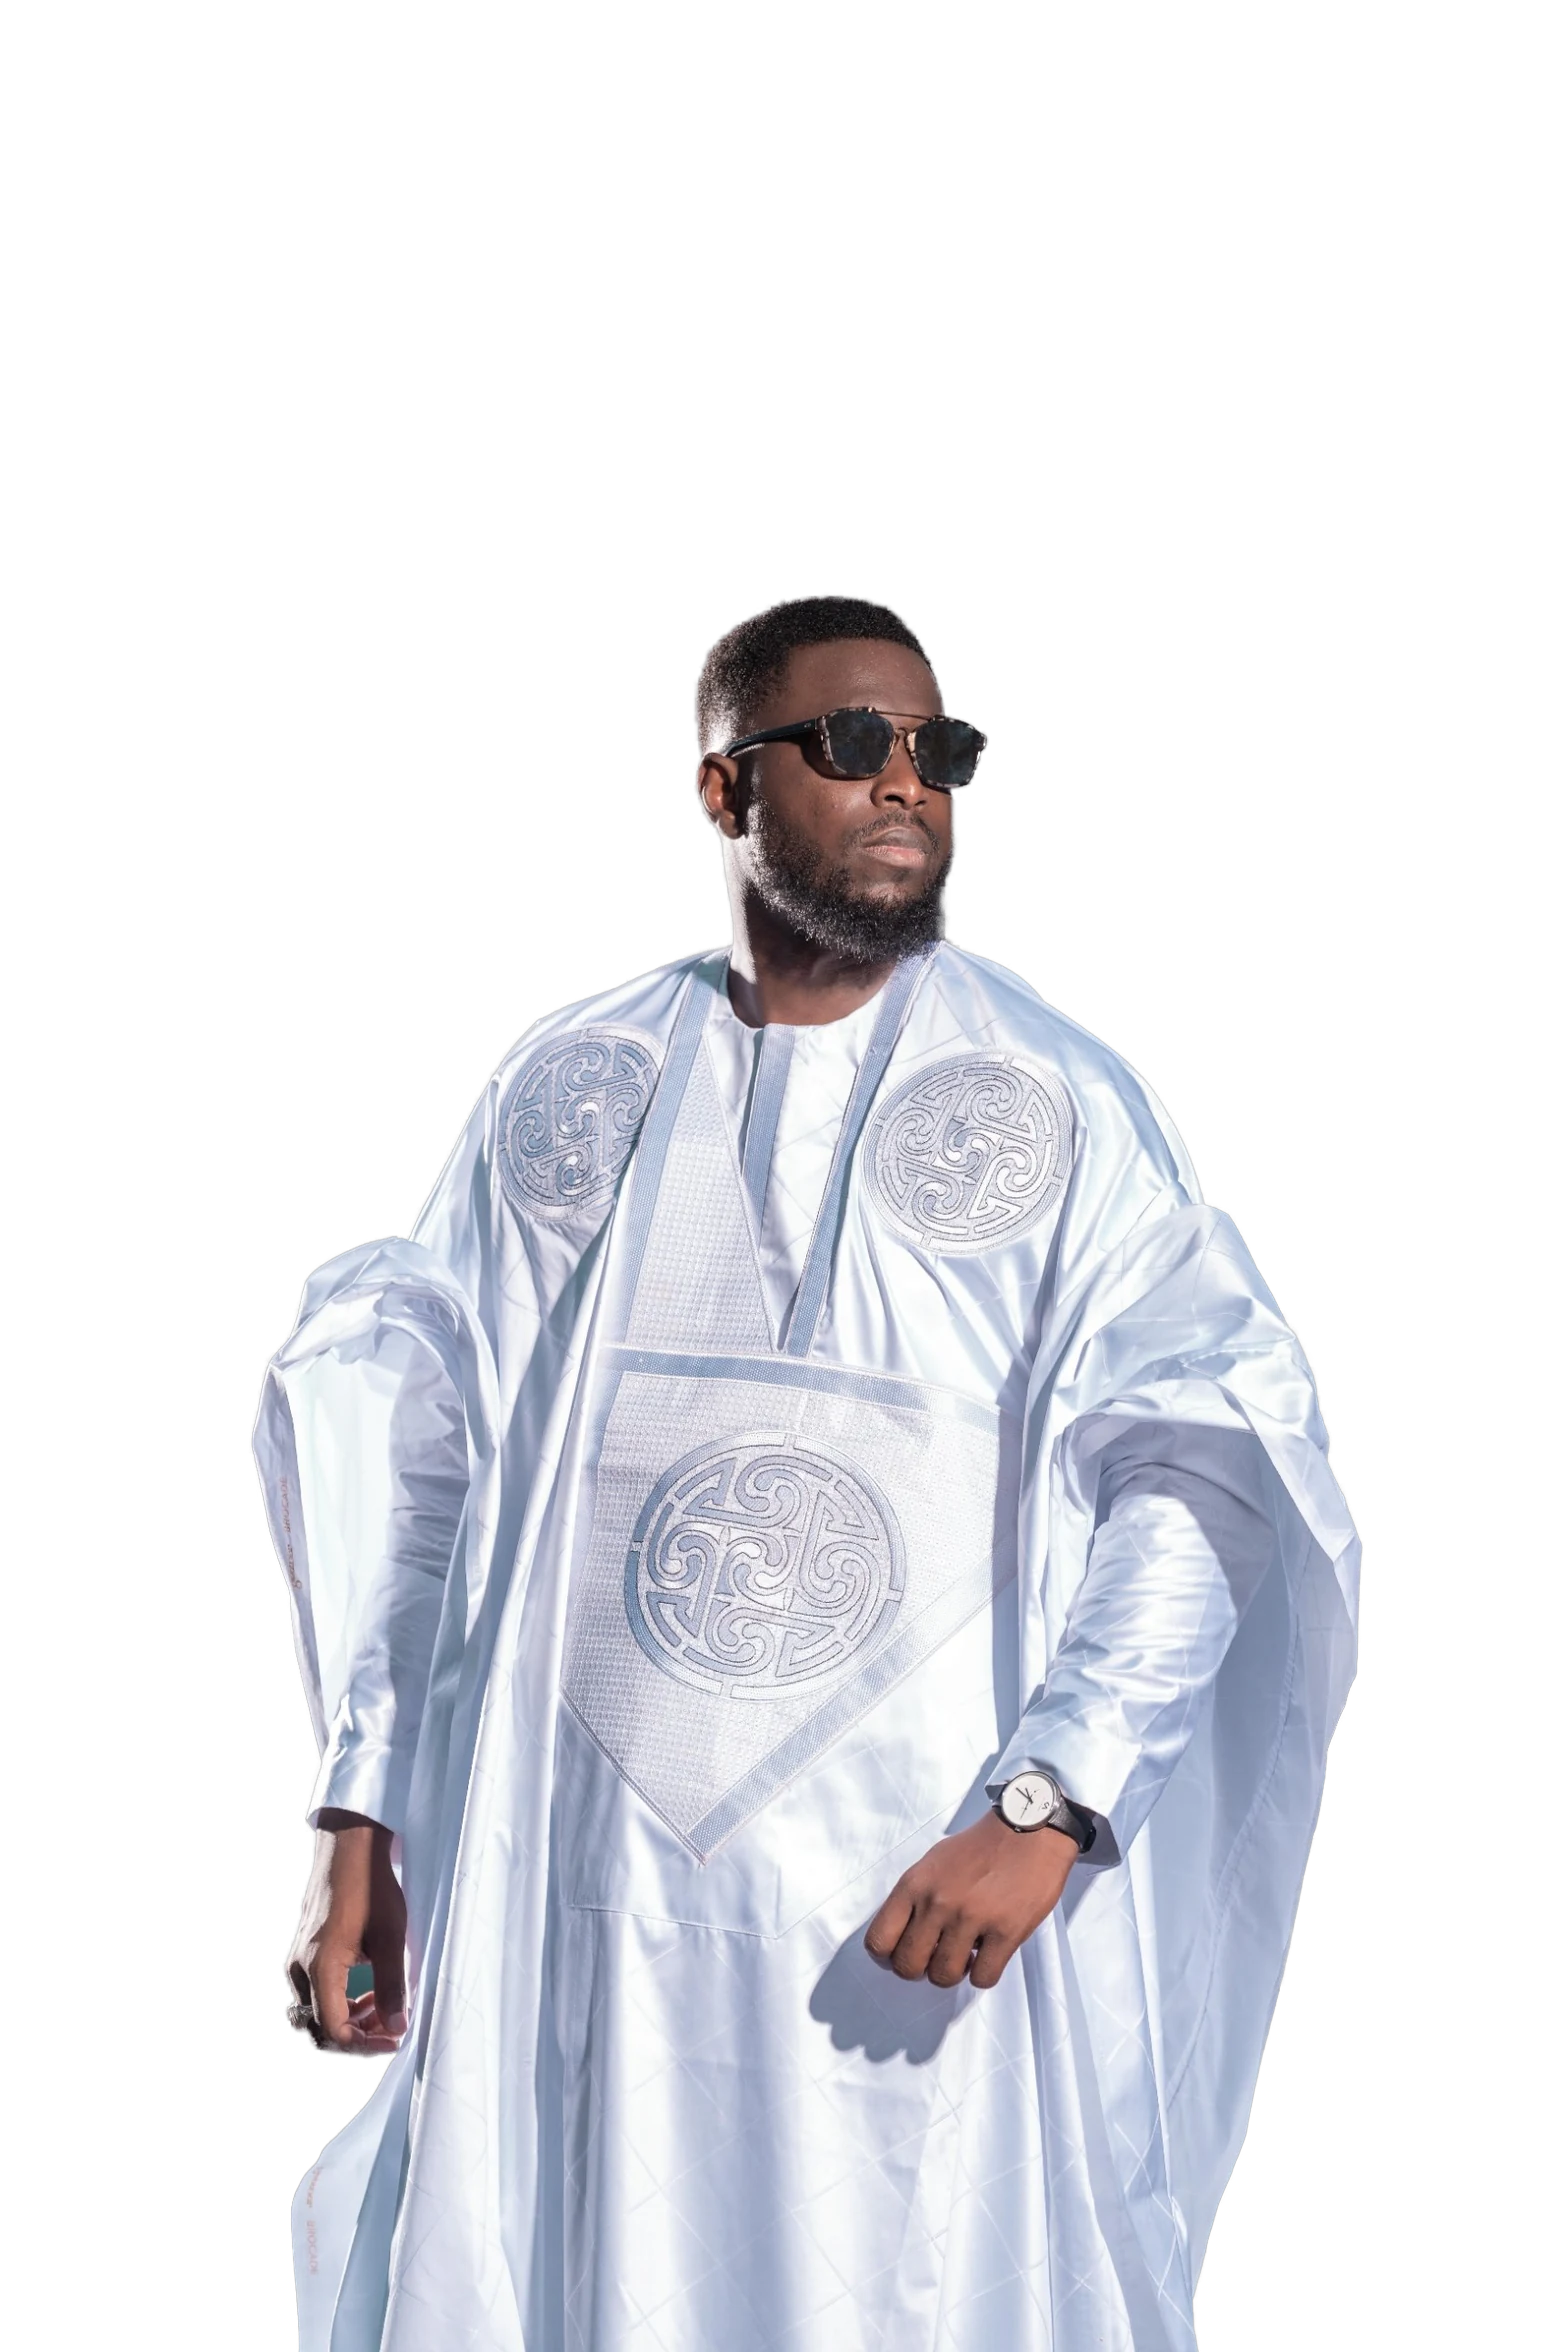
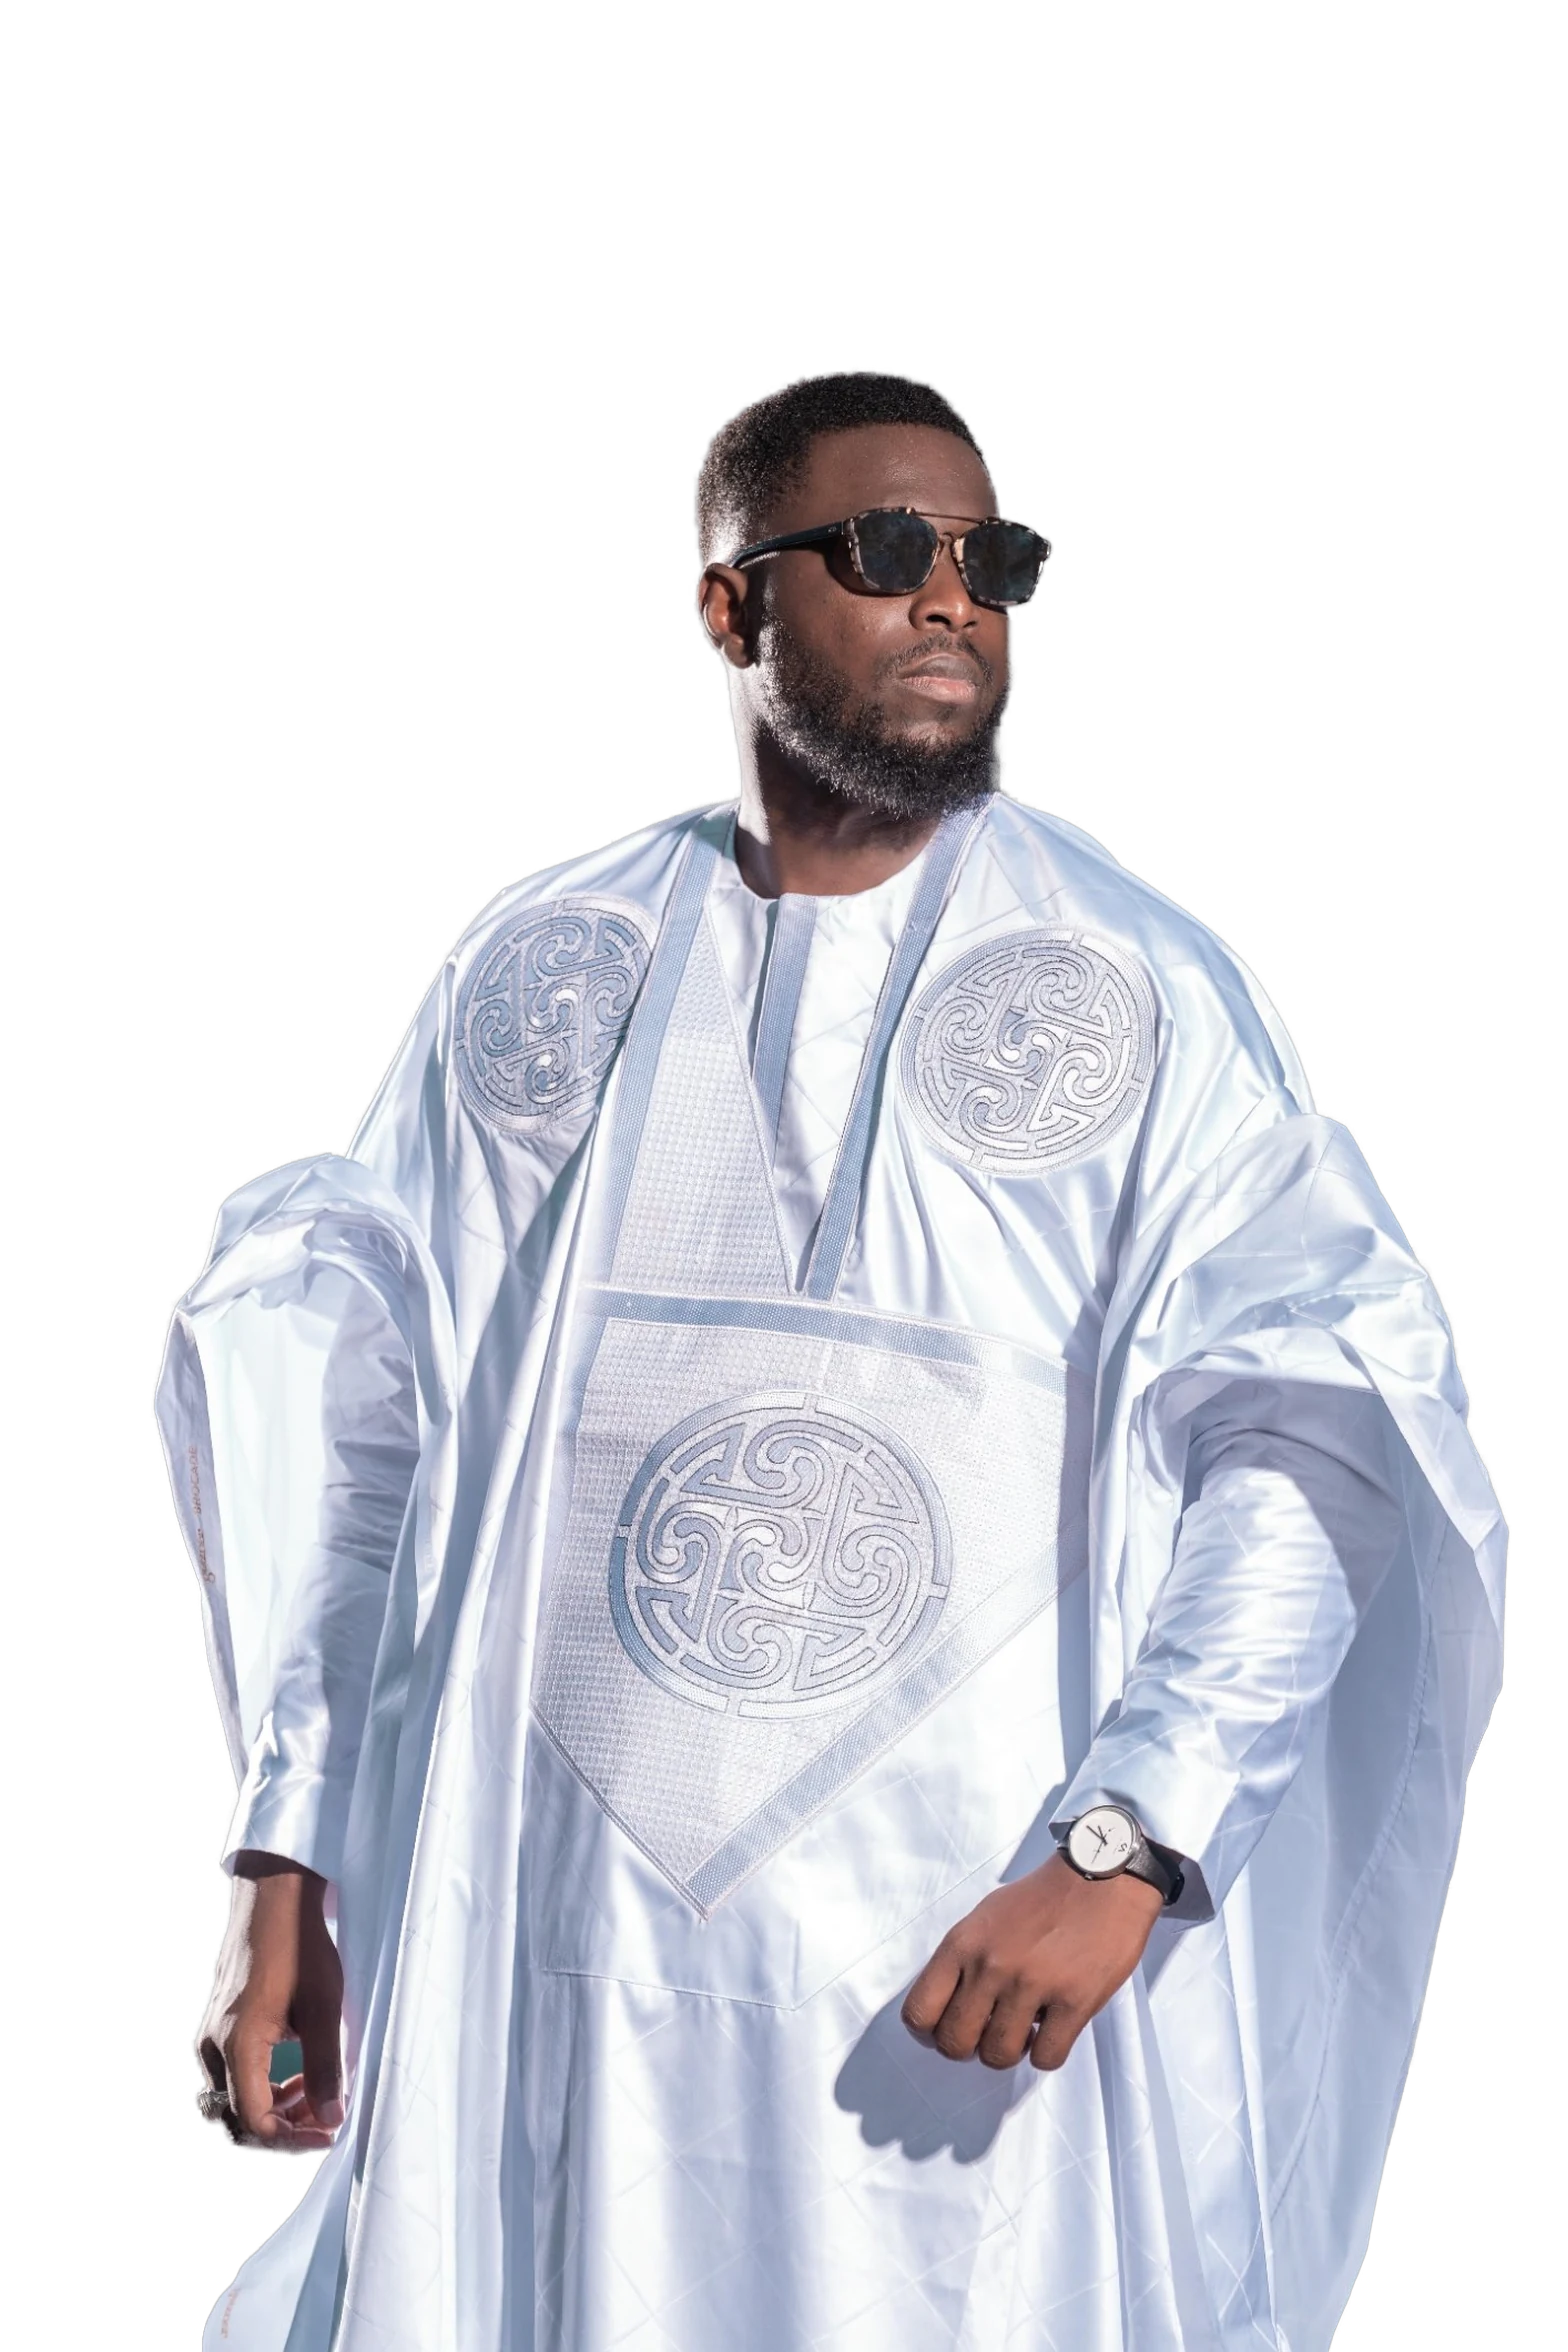
Add files via upload

diff --git a/css/style.css b/css/style.css
@@ -401,7 +401,7 @@ main h2 { font-size: clamp(2rem, 5vw, 3.4rem); margin: 0 0 1rem; }
 /* ---------- Accueil : ordinateur = deux photos côte à côte, sans diaporama ; tablette et téléphone = diaporama ---------- */
 .hero-count { display: none; }
 .hero-duo { display: none; }
-@media (min-width: 1100px) {
+@media (min-width: 1280px) {
   .hero-photo .slide { opacity: 1 !important; transition: none; }
   .hero-photo .slide:nth-of-type(n + 2) { display: none; }
   .hero-photo::before { opacity: 1 !important; }
@@ -412,9 +412,9 @@ main h2 { font-size: clamp(2rem, 5vw, 3.4rem); margin: 0 0 1rem; }
   }
   .hero-duo img { display: block; width: 100%; height: 100%; object-fit: cover; object-position: 50% 100%; }
 }
-@media (min-width: 1100px) and (max-width: 1399px) { .hero-bio { max-width: 24rem; } }
+@media (min-width: 1280px) { .hero-bio { max-width: 26rem; } }
 
 /* Tablette : l'accueil occupe exactement l'écran */
-@media (min-width: 521px) and (max-width: 1099px) {
+@media (min-width: 521px) and (max-width: 1279px) {
   .hero-stage { min-height: max(640px, 100svh); }
 }

diff --git a/js/site.js b/js/site.js
@@ -215,7 +215,7 @@
     var start = function () {
       stop();
       if (reduce || slides.length < 2) { return; }
-      timer = setInterval(function () { if (!held && !document.hidden && !(window.matchMedia && window.matchMedia("(min-width: 1100px)").matches)) { go(current + 1); } }, interval);
+      timer = setInterval(function () { if (!held && !document.hidden && !(window.matchMedia && window.matchMedia("(min-width: 1280px)").matches)) { go(current + 1); } }, interval);
     };
     bars.forEach(function (b) {
       b.addEventListener("click", function () { go(parseInt(b.getAttribute("data-slide-to"), 10)); start(); });
